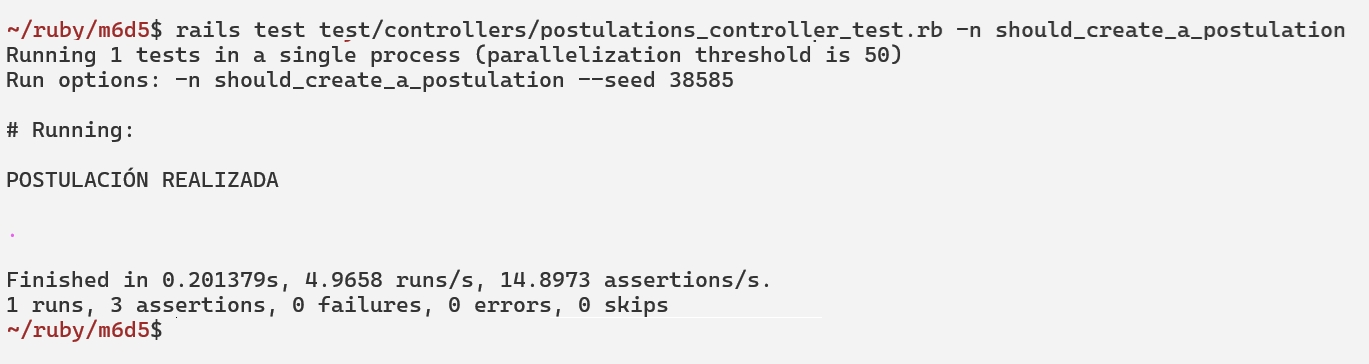
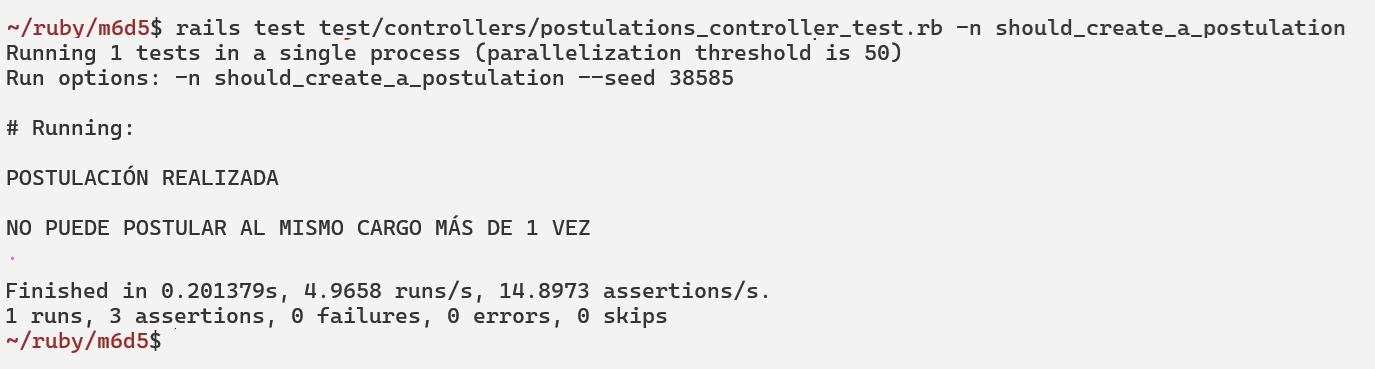
v3.9 - Modifica test del controlador de crear postulaciones

diff --git a/test/controllers/postulations_controller_test.rb b/test/controllers/postulations_controller_test.rb
@@ -2,42 +2,32 @@ require "test_helper"
 include ActionDispatch::TestProcess
 
 class PostulationsControllerTest < ActionDispatch::IntegrationTest
-  setup do
-    @owner = User.create!(email: "owner@example.com",
-      password: "123456",
-      name: "Esteban",
-      phone: 987654321,
-      curriculum: "CV Esteban",
-      role: "owner")
-    imagen = fixture_file_upload("esteban_picture.jpg", "image/jpeg")
-    @owner.image.attach(imagen)
+  def setup
+    @owner = users(:owner)        # Carga el owner desde los fixtures
+    @user  = users(:juan)         # Carga el usuario desde los fixtures
+    sign_in @user                 # Hace sign_in del usuario cargado
+    @offer = offers(:first_offer) # Carga una oferta desde los fixtures
 
-    @user  = User.create!(email: "user@example.com",
-      password: "123456",
-      name: "Carlos",
-      phone: 987654321,
-      curriculum: "CV Carlos",
-      role: "normal")
-    imagen = fixture_file_upload("juan_picture.jpg", "image/jpeg")
-    @user.image.attach(imagen)
-
-    @offer = Offer.create!(title: "Desarrollador de software",
-      description: "Multifacético",
-      active: true,
-      limit: Date.tomorrow,
-      user: @owner)
+    # Limpio las postulaciones previas para asegurar un estado limpio
+    Postulation.where(user: @user, offer: @offer).destroy_all
   end
 
   test "should create a postulation" do
-    # Iniciar sesión como un usuario
-    sign_in @user
+    # Asigno imagenes de prueba
+    @owner.image.attach(fixture_file_upload("esteban_picture.jpg", "image/jpeg")) # No es necesario, pero igual lo ahacemos
+    @user.image.attach(fixture_file_upload("juan_picture.jpg", "image/jpeg"))     # El user necesita una imagen para poder postular
 
-    # Realizar la solicitud de creación de postulación
+    # Realizo la primera solicitud de creación de postulación
     post offer_postulations_path(offer_id: @offer.id), params: { postulation: { message: "Estoy interesado en el puesto" } }
     puts
-
-    # Verificar redirección o mensaje flash
     assert_redirected_to postulations_path
     assert_equal "POSTULACIÓN REALIZADA", flash[:alert]
+
+    # Intento crear otra postulación para la misma oferta
+    post offer_postulations_path(offer_id: @offer.id), params: { postulation: { message: "Intento duplicado" } }
+
+    # Verifico que el intento duplicado no se permite
+    assert_redirected_to offers_path
+    assert_equal "NO PUEDE POSTULAR AL MISMO CARGO MÁS DE 1 VEZ", flash[:alert]
   end
 end

diff --git a/test/models/postulation_test.rb b/test/models/postulation_test.rb
@@ -2,35 +2,20 @@ require "test_helper"
 include ActionDispatch::TestProcess
 
 class PostulationTest < ActiveSupport::TestCase
-  setup do
-    @owner = User.create!(email: "owner@example.com",
-      password: "123456",
-      name: "Esteban",
-      phone: 987654321,
-      curriculum: "CV Esteban",
-      role: "owner")
-    imagen = fixture_file_upload("esteban_picture.jpg", "image/jpeg")
-    @owner.image.attach(imagen)
+  def setup
+    @owner = users(:owner)        # Carga el owner desde los fixtures
+    @user  = users(:juan)         # Carga el usuario desde los fixtures
+    sign_in @user                 # Hace sign_in del usuario cargado
+    @offer = offers(:first_offer) # Carga una oferta desde los fixtures
 
-    @user  = User.create!(email: "user@example.com",
-      password: "123456",
-      name: "Carlos",
-      phone: 987654321,
-      curriculum: "CV Carlos",
-      role: "normal")
-    imagen = fixture_file_upload("juan_picture.jpg", "image/jpeg")
-    @user.image.attach(imagen)
-
-    @offer = Offer.create!(title: "Desarrollador de software",
-      description: "Multifacético",
-      active: true,
-      limit: Date.tomorrow,
-      user: @owner)
+    # Limpio las postulaciones previas para asegurar un estado limpio
+    Postulation.where(user: @user, offer: @offer).destroy_all
   end
 
   test "should create a postulation" do
-    # Iniciar sesión como un usuario
-    sign_in @user
+    # Asigno imagenes de prueba
+    @owner.image.attach(fixture_file_upload("esteban_picture.jpg", "image/jpeg")) # No es necesario, pero igual lo ahacemos
+    @user.image.attach(fixture_file_upload("juan_picture.jpg", "image/jpeg"))     # El user necesita una imagen para poder postular
 
     # Crear la postulación para el usuario
     postulation = Postulation.new(user: @user, offer: @offer, message: "Estoy interesado en el puesto")

diff --git a/app/controllers/postulations_controller.rb b/app/controllers/postulations_controller.rb
@@ -24,7 +24,7 @@ class PostulationsController < ApplicationController
     if current_user.owner?
       @postulation.saw = true
       if !@postulation.save
-        flash[:notice] = "Error interno - No es posible modificar VISTO"
+        flash[:notice] = "Error interno - DB"
       end
     end
   end
@@ -136,7 +136,6 @@ class PostulationsController < ApplicationController
     end
 
     def set_offer
-      offer_id = params[:offer_id]
       @offer = Offer.find(params[:offer_id]) # La oferta debe existir para postular
       if !@offer
         flash[:alert] = "LA OFERTA NO SE ENCONTRÓ O FUE ELIMINADA"

diff --git a/app/controllers/application_controller.rb b/app/controllers/application_controller.rb
@@ -7,7 +7,8 @@ class ApplicationController < ActionController::Base
 
   def authorize_request(kind = nil)
     unless kind.include?(current_user.role)
-      redirect_to offers_path, notice: "No está autorizado para realizar esta acción"
+      flash[:alert] = "NO ESTÁ AUTORIZADO PARA REALIZAR ESTA ACCION"
+      redirect_to root_path
     end
   end
 

diff --git a/README.md b/README.md
@@ -90,7 +90,7 @@ Para ejecutar la prueba en el modelo el comando es: rails test test/models/postu
 
 ![Test](test1.jpg)
 
-Para ejecutar la prueba en el controlador el comando es: rails test test/controllers/postulations_controller_test.rb -n should_create_a_postulation
+Para ejecutar la prueba en el controlador el comando es: rails test test/controllers/postulations_controller_test.rb -n should_create_a_postulation. Este test, además de verificar el proceso de postulación, verifica que un usuario no pueda postular más de 2 veces al mismo cargo.
 
 ![Test](test2.jpg)
 
